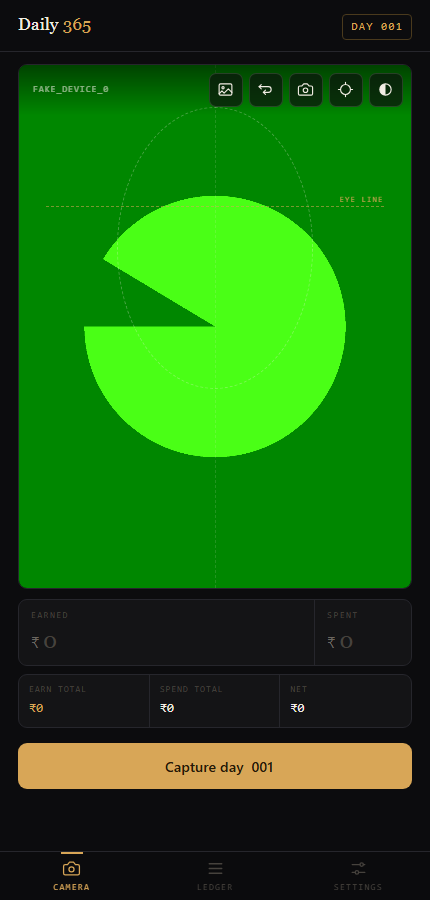
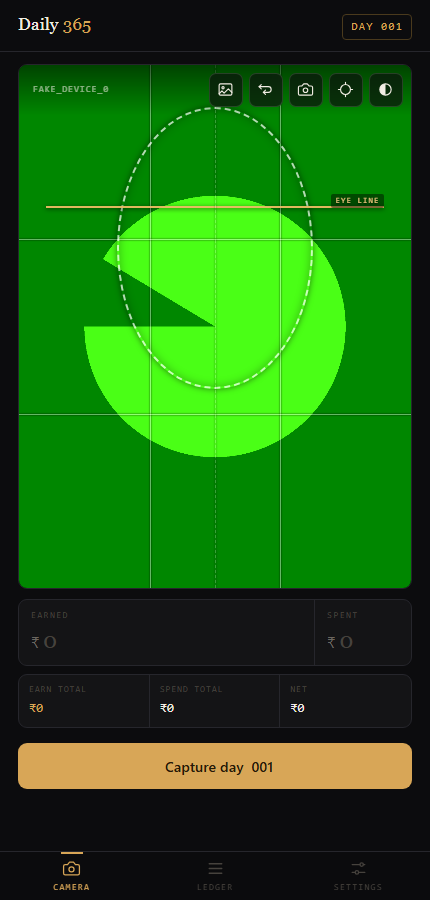
Make framing guides clearly visible and add a rule-of-thirds grid

Changed region(s): [[0.0605, 0.0933, 0.9372, 0.6533]]

diff --git a/assets/styles.css b/assets/styles.css
@@ -169,6 +169,19 @@ main {
 /* framing guides — drawn, never baked into the file */
 .guides { position: absolute; inset: 0; pointer-events: none; }
 .guides[hidden] { display: none; }
+
+/* rule-of-thirds grid and guides carry a dark halo so they stay legible
+   over bright scenes as well as dark ones */
+.guides .grid i {
+  position: absolute;
+  background: rgba(255, 255, 255, 0.4);
+  box-shadow: 0 0 2px rgba(0, 0, 0, 0.65), 0 0 1px rgba(0, 0, 0, 0.8);
+}
+.guides .grid .v1 { left: 33.333%; top: 0; bottom: 0; width: 1px; }
+.guides .grid .v2 { left: 66.666%; top: 0; bottom: 0; width: 1px; }
+.guides .grid .h1 { top: 33.333%; left: 0; right: 0; height: 1px; }
+.guides .grid .h2 { top: 66.666%; left: 0; right: 0; height: 1px; }
+
 .guides .oval {
   position: absolute;
   left: 50%;
@@ -176,31 +189,38 @@ main {
   width: 50%;
   height: 54%;
   transform: translateX(-50%);
-  border: 1px dashed rgba(242, 237, 228, 0.3);
+  border: 2px dashed rgba(255, 255, 255, 0.7);
   border-radius: 50%;
+  box-shadow: 0 0 6px rgba(0, 0, 0, 0.5), inset 0 0 10px rgba(0, 0, 0, 0.28);
 }
 .guides .eyeline {
   position: absolute;
   left: 7%;
   right: 7%;
   top: 27%;
-  border-top: 1px dashed rgba(216, 166, 87, 0.55);
+  border-top: 2px solid rgba(236, 186, 100, 0.95);
+  box-shadow: 0 1px 4px rgba(0, 0, 0, 0.65);
 }
 .guides .eyeline span {
   position: absolute;
   right: 0;
-  top: -13px;
+  top: -14px;
+  padding: 1px 4px;
+  background: rgba(0, 0, 0, 0.45);
+  border-radius: 2px;
   font-family: var(--mono);
   font-size: 8px;
   letter-spacing: 0.14em;
-  color: rgba(216, 166, 87, 0.85);
+  color: rgba(246, 203, 128, 0.98);
+  text-shadow: 0 1px 2px rgba(0, 0, 0, 0.8);
 }
 .guides .centre {
   position: absolute;
   left: 50%;
   top: 0;
   bottom: 0;
-  border-left: 1px dashed rgba(242, 237, 228, 0.14);
+  border-left: 1px dashed rgba(255, 255, 255, 0.22);
+  box-shadow: 0 0 2px rgba(0, 0, 0, 0.5);
 }
 
 .vf-bar {

diff --git a/assets/app.js b/assets/app.js
@@ -1262,11 +1262,17 @@
       settings.guides = !settings.guides;
       persistSettings();
       refreshGhost();
+      say(settings.guides ? "Framing guides on" : "Framing guides off");
     });
     $("btnGhost").addEventListener("click", () => {
       settings.ghost = !settings.ghost;
       persistSettings();
       refreshGhost();
+      say(
+        settings.ghost
+          ? (entries.length ? "Ghost overlay on" : "Ghost on — it appears once yesterday's photo exists")
+          : "Ghost overlay off"
+      );
     });
 
     // review

diff --git a/index.html b/index.html
@@ -36,6 +36,9 @@
         <img class="ghost" id="ghost" alt="">
 
         <div class="guides" id="guides" hidden>
+          <div class="grid">
+            <i class="v1"></i><i class="v2"></i><i class="h1"></i><i class="h2"></i>
+          </div>
           <div class="oval"></div>
           <div class="eyeline"><span>EYE LINE</span></div>
           <div class="centre"></div>

diff --git a/sw.js b/sw.js
@@ -7,7 +7,7 @@
    Only same-origin traffic is intercepted.
    ========================================================================= */
 
-const CACHE = "daily365-v4";
+const CACHE = "daily365-v5";
 
 const SHELL = [
   "./",

diff --git a/tools/e2e_test.py b/tools/e2e_test.py
@@ -92,6 +92,22 @@ async def main():
             "document.getElementById('viewfinder').classList.contains('is-dead')")
         check("viewfinder is not in the failed state", dead is False)
 
+        guides = await page.evaluate(
+            """() => {
+                 const g = document.getElementById('guides');
+                 const marks = g.querySelectorAll('.grid i');
+                 return {
+                   visible: !g.hidden,
+                   grid: marks.length,
+                   oval: !!g.querySelector('.oval'),
+                   lineWidth: marks.length ? getComputedStyle(marks[0]).width : ''
+                 };
+               }""")
+        check("framing guides are visible", guides["visible"] is True, str(guides))
+        check("rule-of-thirds grid is drawn", guides["grid"] == 4, str(guides["grid"]))
+        check("face oval is drawn", guides["oval"] is True)
+        check("grid lines have a real width", guides["lineWidth"] in ("1px", "1.5px", "2px"), guides["lineWidth"])
+
         print("\n== 6. Capture produces a stamped 1080x1440 JPEG ==")
         await page.click("#btnCapture")
         await page.wait_for_selector("#view-review.is-active", timeout=5000)

diff --git a/README.md b/README.md
@@ -164,7 +164,7 @@ python3 tools/drive_flow_test.py
 
 Chromium is launched with a fake video device, so the real capture path runs:
 compose, stamp, encode, persist, recompute, export. The suite also checks layout
-at three phone viewport sizes. Last run: **60 passed, 0 failed**.
+at three phone viewport sizes. Last run: **64 passed, 0 failed**.
 
 It writes `tools/screens/` — camera, review, ledger, settings, and a real stamped
 JPEG you can inspect.
